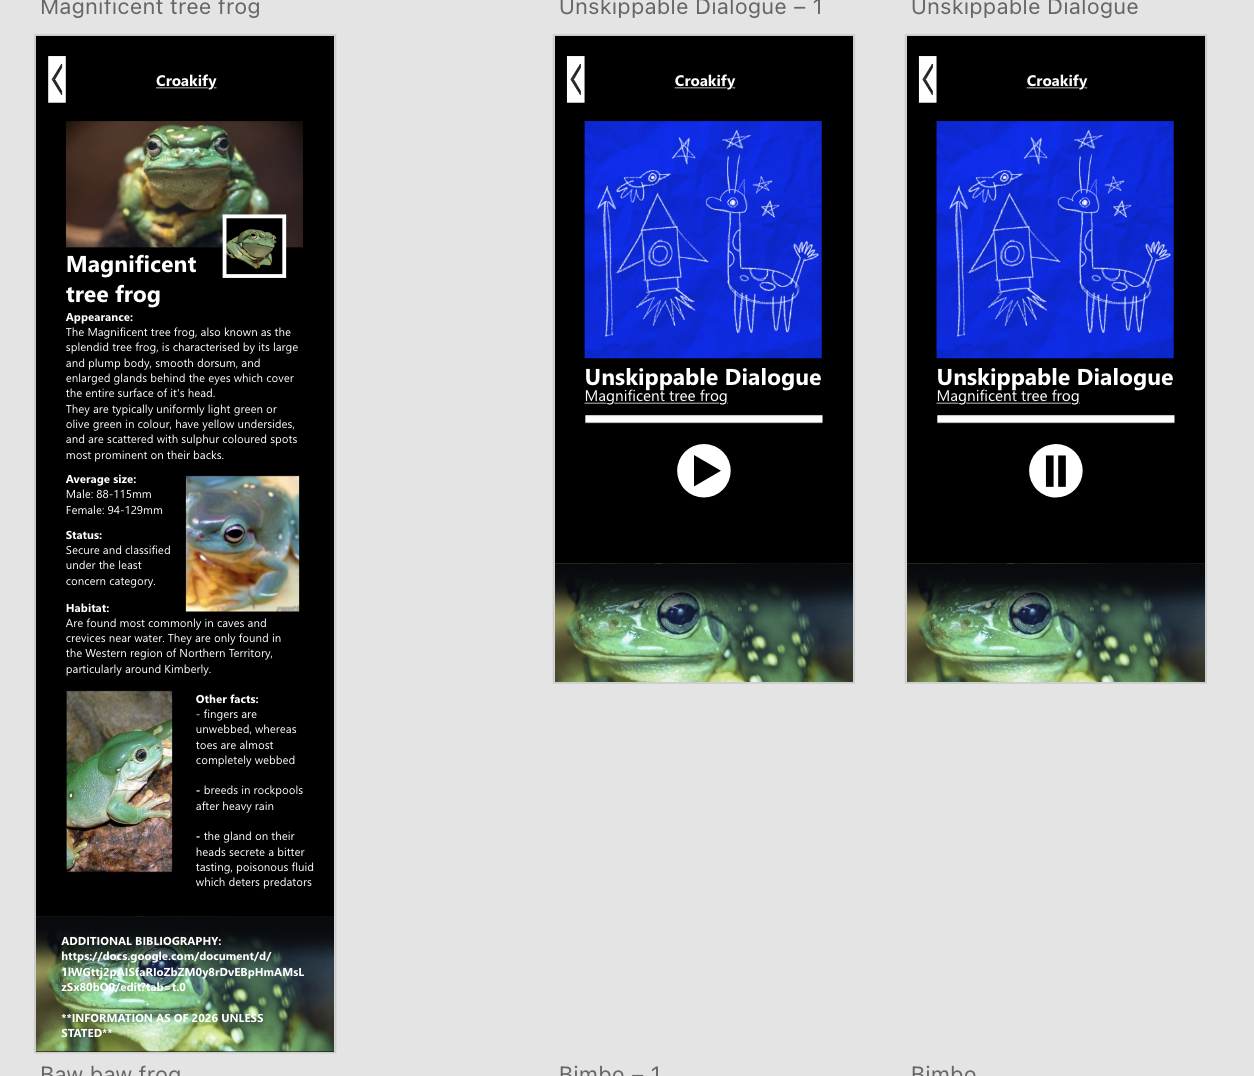
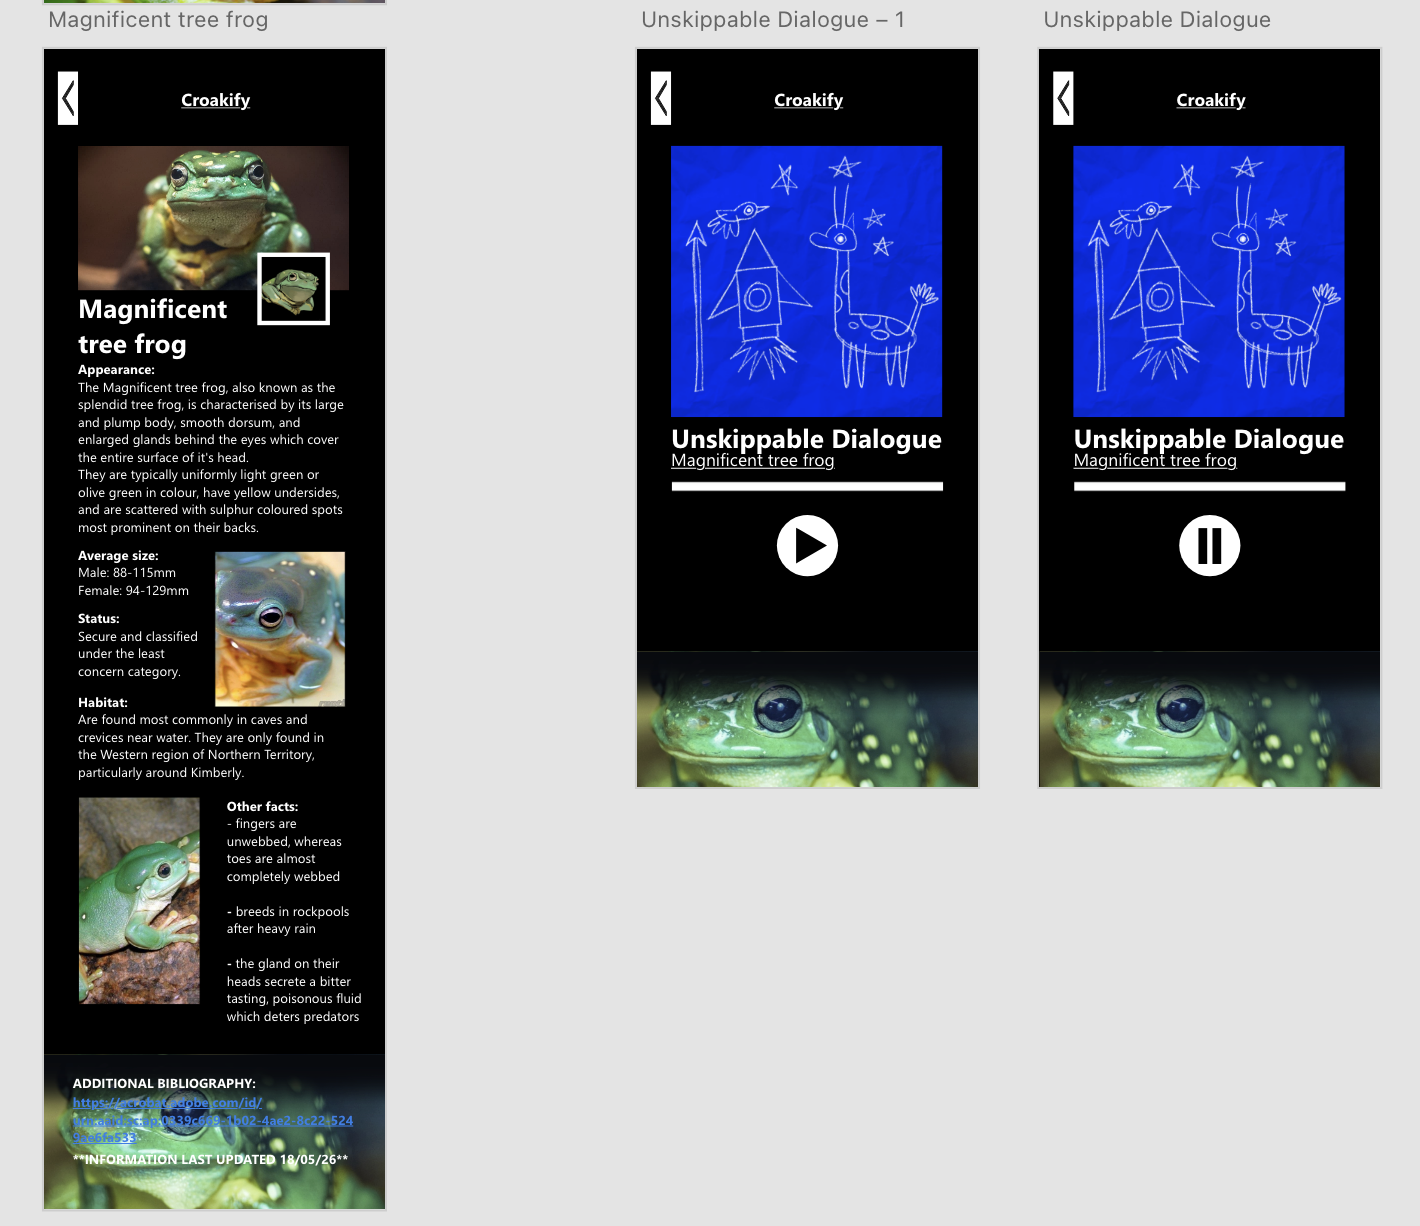
finished weekly evals, edited peer evaluations

diff --git a/Portfolio.md b/Portfolio.md
@@ -84,7 +84,7 @@ Although the app is designed for all users, additional considerations regarding 
 
 Croakify will postively impact users by creating an enjoyable and memorable learning environment, encouraging curiosity and environmental awareness, and inspiring external engagement with conservation topics, especially in younger generations.
 
-However, there are also several potential risks associated with the creation of the app. If information is oversimplified or becomes outdated (especially as *"Frogs of Australia"* is from 2018, information such as status will need to be rechecked, and there will need to be a disclaimer), users may receive inaccurate or misleading details that could result in the mishandling of frogs, disturbance of habitats, or incorrect identification of endangered or toxic species. 
+However, there are also several potential risks associated with the creation of the app. If information is oversimplified or becomes outdated (especially as *"Frogs of Australia"* is from 2018, information such as status will need to be rechecked, and there will need to be a date of last edit disclaimer), users may receive inaccurate or misleading details that could result in the mishandling of frogs, disturbance of habitats, or incorrect identification of endangered or toxic species. 
 Moreover, some frogs may have cultural significance to Indigenous Australians or other communities (eg. the northern corroboree frog as a sacred totem of changing season to the Walgalu people), and using images/data without proper acknowledgement or portrayal could be perceived as disrepectful.
 
 Since Croakify is highly audio based, users with hearing impairments will also be greatly disadvantaged.
@@ -119,9 +119,9 @@ If I were to expand Croakify, I would need to gain the consent to use any copyri
 
 |Software Option| Plus | Minus | Implication|
 |---|---|---|---|
-| Adobe XD |  |
-| Figma|  |
-| Unity | |
+| Adobe XD | Adobe XD offers a variety of intuitive features and beginner friendly aspects such as drag and drop components, repeat grids and real time previews which allow for efficient and fast paced design processes. Basic animations and functions such as time triggered cues and screen transitions are also included presets within the prototype menu, so that users can create engaging interactive elements without needing to code. Furthermore, the layout and interface of the app follows a similar structure to other Adobe products I have previously used (AI, AP, ID), and should be relatively easy to learn.| According to online reviews, Adobe can be limiting when creating more detailed or complex prototypes due to the lack of advanced tools (conditional logic/variables etc.) and its discontinuation. It may also become laggy when working on large projects with many artboards and assets.| Adobe XD would be the most suitable software option for my project as there are many tutorials online explaining similar functions also used within my app (incuding the ones provided in class), while its straightfoward interface and protyping tools allow for professional looking results with minimal difficulty and experience. 
+| Canva| Canva includes a wide selection of design assets, preset elements, example templates and editing tools which m|
+| Figma | |
 
 ### Wireframes
 <img src="images/wireframe1.png" width="300" height="">
@@ -166,17 +166,12 @@ I aim to complete each prototype in a week, so I think my project managment so f
 Next week, I want have all my artboards, pick my colour palette, add images, and put down all my text except for the information. I should also make a google doc where I can put my reference links and type up my draft profiles.
 
 ### Testing and evaluating: prototype 1
-Yuna Shin  
-I like how the back button is really clear to see at the top. Also i really like how the play button looks like - it looks satisfying and feels good to click cause its big. Easy to navigate without any extra information and i like how the things you click to move on the the next pages are underlined so you won't have to worry and think about what to click. Foot graphics - good, i like it. I also like how they all look the smae its like satisfying to see 
 
-Probably should have like a button so that you can come from the singer name back the home screen straight away?? Makeks it easier cause then I dont have to click an extra time. I also like how the big the images are, 
+| Evaluator| Positive | Negative|
+| -------- | -------- | ------- |
+| Yuna | "the play button looks satisfying and feels good to click because it is big", "I like how interactive elements are underlined so I know what to press", "I like how the footer graphics are consistent is size", "I like how big the images are" | "I want a home button because I'm lazy to click twice"
+| Arisa | "Its like spotify and a lot of music apps which improves user navigation",  "aesthetically pleasing", "satisfying transitions and buttons"| "the grey is kinda yucky because it clashes with the colour palettes"
 
-Arisa -
-It's very structured and intuitive as its similar to spotify and a lot of music apps which improves user navigation
-the song photos are very aesthetically pleasing and i like the nirvana frog its so touchable
-the transition between clicking the song and going to the song is very smooth and makes the ui really satisfying
-i love the buttons its so nice
-maybe add logo or the app name at the tippy top of the main screen? i kind of hate the gray it clashes with a lot of the song covers otherwise its perfect i loveee
 
 ### Ongoing evaluation: Week 2
 
@@ -197,28 +192,11 @@ Again, my time and workflow was great, since I completed it before my expected d
 Next week, I aim to wrap up my whole project so I have more time to work on theory. This includes my loading screen (which I have come to keep), drawing my logo and footers, making a progress bar, importing my frog sounds, and writing up my frog profile information. I feel like I can complete this in time, but writing could take a long time.
 
 ### Testing and evaluating: prototype 2
-
-Yuna
-I like the pictures (high quality) and very sturcutred, easy to navigate i also really like the loadig screen. I like the drawings and how each page looks the same so it isnt too overhwleming. Big arrow button so easy to see. I like how each page is structured so thats its not too boring but not that decorated and over the top euither. Mayeb you need a logo so that they can get from the information page back to the start in one go and not press the back button twice ?? (idk). also why is the play button already on play.  i dont like that. why is it playihng before i even press anything. what if im outside and my phones on full volume. i like the names too but jayeb too big compared to the actuall bnames> or like maybe write how it is linekd to the actual frog in the description or smth cause it seems ireelavant.
-
-arisa
-i like the transitions
-I LOVE THE SONG ART its so pretty and i like how each song is like a reference to some artist in real life it definitely improvers user interaction with the program
-the 'artist info' frog thing the layout is really pretty and i like how they have a long panel and a profile photo and the outline on the profile adds clarity
-\maybe the back button should be locked to the page when u scroll so its more accessible and im a lazy bum + maybe fill the arrow cus like ur pause button is filled black so ur back arrow should be filled as well for consistency
-the transition times for each song is different make it consistent but i like that u added transitions it definitely elevates the user experience
-i think u should have a title or something logo or whatever on ur playlist page
-i like that u have a loading screen
-the black makes it very sleek and definitely made ur ui look prettier
-
-emma
-the transitions are very smooth and good and user friendly
-It's very aesthetically pleasing especially the album covers and the bottom bit which is very cutesy
-all the frog calls are really cool and I like how you can learn a lot about the frogs
-the only problem would be that I want to look at the doc thing but I can't click on it or copy paste it
-
-also the loading screen!! is so cute!!!!!!!!
-ya i rlly like
+| Evaluator| Positive | Negative|
+| -------- | -------- | ------- |
+| Yuna | "high quality images and drawings", "easy to navigate", "each page is consistent and not overwhelming or boring", "appropriately decorated", "buttons are familiar and easy to find" | "Do you have a logo?", "It would be nice to have a direct home button"
+| Arisa | "I like the transitions",  "I like the song art", "I like the outline on images that blend into the backgroud for clarity", "some songs are real life references that improves user engagement", "frog information is very structured and easy to understand"| "maybe the back button should be locked", "add a home button", "you should have a title or logo to tell the user what the app is"|
+| Emma | "smooth transitions",  "its very aesthetically pleasing", "I love the footers", "I like the frog calls", "very informative"| "you havent put the bibliography yet but I suggest you make it into a hyperlink so its clickable"|
 
 ### Ongoing evaluation: Week 3
 <img src="images/week3evaluation.png" width="300" height="">
@@ -273,7 +251,7 @@ Previously, I had said that I would make a home shortcut button under the back b
 
 **Information:**
 
-I typed all my information in a google doc referencing my book and other credible sources including national geographic, museum sites, FrogId, and IUCN listings, and pasted them into my project.
+I typed all my information in a google doc referencing my book and other credible sources including national geographic, museum sites, FrogId, and IUCN listings, and pasted them into my project. The bibliography is a hyperlink and the playlist has a title and short info section!!
 
 ## Final Evaluation
 ### Functional and Non-functional requirements:
